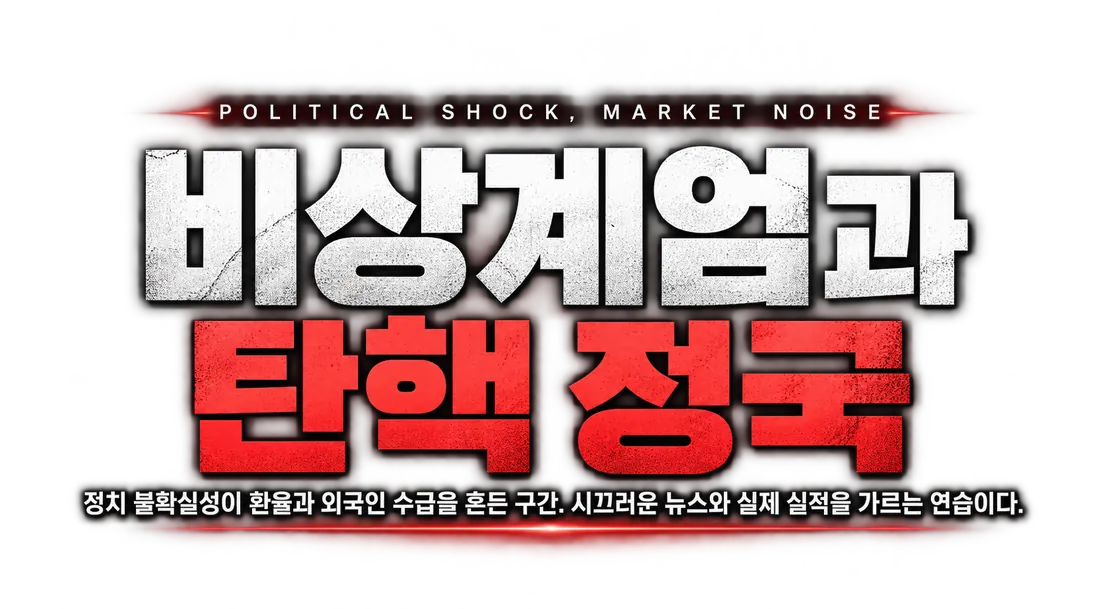
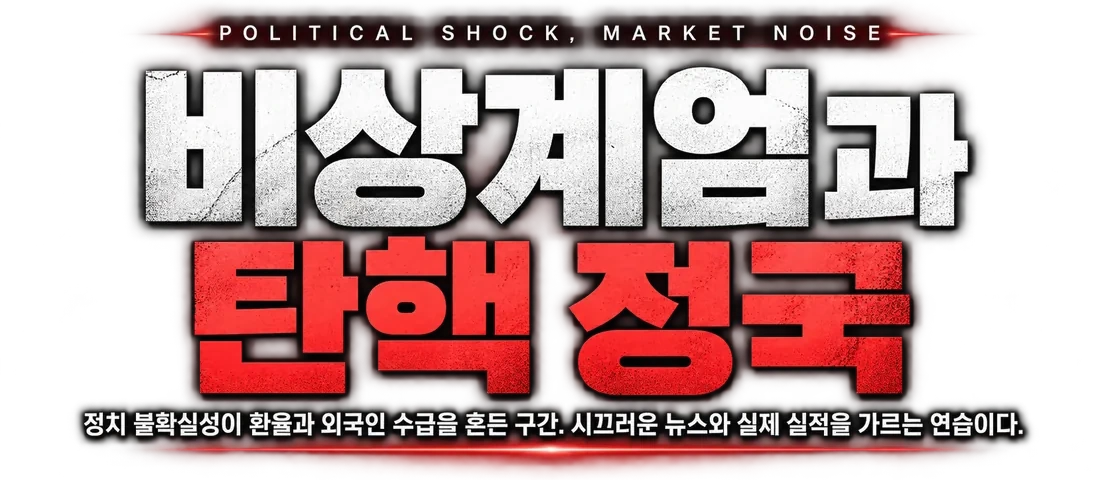
style: FE_[ANT-FE-SEASON-JOIN]_제목 그림의 빈 칸을 잘라 다섯 시즌 모두 한 화면에
조건 카드가 아직 화면 밖으로 밀려 있었다. 트럼프만의 문제가 아니라 다섯 장 모두
같은 이유였다 — 제목 그림(lockup) 안에 글자 위아래로 투명한 빈 칸이 잔뜩 들어
있었고(원본 기준 위 65~165px · 아래 24~166px), 그 빈 칸이 그대로 세로를 먹었다.
장마다 크기가 달라 "카드를 몇 px 겹칠까" 를 한 값으로 정할 수도 없었다.

1) 그림에서 빈 칸을 잘랐다 — scripts/trim-season-titles.py
   알파 32 이상인 곳의 위아래 끝을 찾아 8px 만 남긴다. **가로는 그대로 둔다.**
   화면이 그림을 폭으로 맞추므로 세로만 자르면 **보이는 글자 크기는 그대로**이고
   빈 칸만 사라진다. 여러 번 돌려도 안전하다(이미 잘렸으면 건너뛴다).
     트럼프 822 -> 544 · 코로나 822 -> 749 · 전쟁 838 -> 592
     엔캐리 611 -> 383 · 계엄 609 -> 480

2) 겹침을 -72 -> -16px 으로 되돌렸다.
   -72 는 장마다 다른 빈 칸을 먹으려던 값이었는데, 빈 칸이 얇은 코로나에서는
   겹침이 글자까지 파고들었다. 빈 칸을 없애고 나니 다섯 장의 글자 끝이 같은 자리에
   서서 한 값으로 충분하다 — 글자와 카드 사이가 어느 장이든 38~57px 로 같다.

3) 화면이 낮으면 제목이 먼저 양보한다.
   max-height:max(220px, 100vh - 355px). 빼는 값은 제목 말고 한 화면에 들어와야
   하는 것들의 합이다(상단바 72 + 히어로 여백·말머리·배지 120 + 조건 카드 131 + 숨 32).
   폭이 아니라 높이로 맞추는 것이라 object-fit:contain 으로 비율을 지키고
   object-position:left 로 왼쪽 선에 붙여 둔다. 보통 화면에서는 걸리지 않는다 —
   세 줄짜리 코로나 한 장만 낮은 화면에서 여기에 걸린다.

확인 (다섯 시즌 전부)
  1307x660  카드 바닥이 화면 안 28 · 28 · 28 · 52 · 29px
  1410x712  전부 화면 안
  1900x945  화면 안 286px · 제목은 원래 크기 그대로(상한에 안 걸림)
  390x844   가로 넘침 없음
tsc · 빌드 통과.

diff --git a/frontend/src/styles/screens/sim-join.css b/frontend/src/styles/screens/sim-join.css
@@ -122,6 +122,16 @@
 .sj-lockup{margin:0;line-height:0}
 .sj-lockup img{
   display:block;width:100%;height:auto;
+  /* 화면이 낮으면 제목이 먼저 양보한다.
+     빼는 값은 히어로에서 제목 말고 자리를 차지하는 것들의 합이다 —
+     상단바 72 + 히어로 위아래 여백과 말머리·배지 120 + 조건 카드 131 + 숨 32.
+     여기까지가 "한 화면에 들어와야 하는" 덩어리다.
+     폭이 아니라 높이로 맞추는 것이라 object-fit 으로 비율을 지키고,
+     남는 자리는 오른쪽에 두어 제목이 왼쪽 선에 그대로 붙어 있게 한다.
+     대부분의 화면에서는 이 값이 그림보다 커서 아무 일도 하지 않는다 —
+     세 줄짜리 코로나처럼 원래 키가 큰 한 장만 여기에 걸린다. */
+  max-height:max(220px,calc(100vh - 355px));
+  object-fit:contain;object-position:left center;
   filter:drop-shadow(0 10px 28px rgba(0,0,0,.5));
 }
 
@@ -130,9 +140,15 @@
 
 /* ── 히어로 밖 · 시즌 카드 ────────────────────────────────
    히어로 위로 올라타 두 덩어리를 한 몸으로 묶는다. 위 여백(gap:20px)을
-   상쇄하고 더 끌어올린 값이다. */
+   상쇄하고 더 끌어올린 값이다.
+
+   한때 -72px 이었다. 제목 그림마다 아래 투명 여백이 제각각(원본 기준 24~166px)
+   이라 그 빈 칸을 겹쳐 먹으려던 값인데, 여백이 가장 얇은 코로나에서는 겹침이
+   글자까지 파고들었다. 그림의 빈 칸을 아예 잘라내고 나니(scripts/trim-season-titles.py)
+   다섯 장의 글자 끝이 같은 자리에 서서, 한 값으로 정해도 어느 장도 잘리지 않는다.
+   히어로 아래 여백 34 - 16 = 18px 에 그림에 남긴 숨통 8px 이 더해진다. */
 .sj-card{
-  position:relative;z-index:2;margin:-72px 0 0;
+  position:relative;z-index:2;margin:-16px 0 0;
   display:grid;grid-template-columns:minmax(0,1fr) minmax(0,320px);
   align-items:center;gap:24px;padding:22px 26px;
   border:1px solid var(--rule);border-radius:20px;
@@ -269,8 +285,8 @@
   .sj-steps{grid-template-columns:repeat(2,minmax(0,1fr))}
 }
 @media(max-width:900px){
-  .sj-hero-body{max-width:100%;padding-bottom:64px}
-  .sj-card{grid-template-columns:minmax(0,1fr);gap:18px;margin-top:-52px}
+  .sj-hero-body{max-width:100%;padding-bottom:44px}
+  .sj-card{grid-template-columns:minmax(0,1fr);gap:18px;margin-top:-16px}
   .sj-head h1{font-size:var(--fs-title-lg)}
   .sj-rules-head{grid-template-columns:minmax(0,1fr)}
   .sj-rules h2::after{display:none}
@@ -283,7 +299,7 @@
 @media(max-width:600px){
   .sj-head h1{font-size:var(--fs-title)}
   .sj-hero{min-height:260px}
-  .sj-hero-body{padding:20px 18px 58px}
+  .sj-hero-body{padding:20px 18px 44px}
   .sj-card{padding:18px 16px}
   .sj-stats > div{padding:0;border-left:0;flex:1 1 45%}
   .sj-steps{grid-template-columns:minmax(0,1fr)}
@@ -364,14 +380,11 @@ body.sim-join-page .sj-dialog{
 }
 
 /* 조건 카드를 위로 올린다(2026-09-22).
-   **제목 그림 아래는 건드릴 수 없다.** 카드가 히어로를 72px 겹쳐 올라타는데, 그림마다
-   아래 투명 여백이 달라서다 — 실측으로 코로나 14px · 계엄 38 · 전쟁 58 · 엔캐리 80 ·
-   트럼프 101. 코로나는 이미 글자 끝이 카드에 닿아 있어(여유 -4px) 겹침을 더 주거나
-   히어로 아래 여백을 줄이면 그 한 장만 제목이 잘린다.
-
-   그래서 **제목 위쪽**을 줄인다. 위가 줄면 그림·히어로 아래끝·카드가 **같이** 올라오므로
-   그림과 카드 사이는 그대로이고 카드만 화면 위로 붙는다. 1366×768 에서 카드 바닥이
-   19px 넘쳐 있었다 — 위에서 22px 을 걷어 안으로 들인다. */
+   히어로와 조건 카드까지는 한 화면(배율 100%)에 들어와야 하는 자리다.
+   제목 그림 자체는 줄이지 않는다 — 줄인 것은 글자 위의 빈 자리와,
+   그림 파일 안에 들어 있던 빈 자리다(scripts/trim-season-titles.py).
+   여기서는 제목 **위쪽** 만 걷는다. 위가 줄면 그림·히어로 아래끝·카드가
+   같이 올라오므로 그림과 카드 사이는 그대로다. */
 body.sim-join-page .sj-hero-body{padding-top:16px;gap:10px}
 body.sim-join-page .sj-head{gap:8px}
 

diff --git a/frontend/scripts/trim-season-titles.py b/frontend/scripts/trim-season-titles.py
@@ -1,0 +1,45 @@
+# -*- coding: utf-8 -*-
+"""시즌 제목 그림(lockup)의 위·아래 빈 공간을 잘라낸다.
+
+왜 필요했나
+  page_train 의 *-title.webp 는 ChatGPT 가 뽑아 준 그대로라 글자 위아래에 투명한
+  여백이 잔뜩 붙어 있었다. 재보면 장마다 다르다(아래 여백만 코로나 24px · 계엄 58 ·
+  전쟁 97 · 엔캐리 121 · 트럼프 166, 원본 픽셀 기준). 화면(G-03 시즌 상세)은 그림을
+  폭으로 맞춰 넣으므로 이 여백이 그대로 세로 높이를 먹고, 그 높이만큼 아래 조건
+  카드가 화면 밖으로 밀렸다. 게다가 여백이 장마다 다르니 "카드를 몇 px 겹칠까" 를
+  한 값으로 정할 수가 없었다 — 트럼프에 맞추면 코로나 글자가 잘리는 식이다.
+
+무엇을 하나
+  알파가 32 이상인 픽셀의 위아래 끝을 찾아 8px 만 남기고 자른다.
+  **가로는 건드리지 않는다.** 화면이 그림을 폭 기준으로 늘리기 때문에, 가로를
+  자르면 글자가 그만큼 커져 다섯 장의 크기 균형이 깨진다. 세로만 자르면 보이는
+  글자 크기는 한 픽셀도 달라지지 않고 빈 공간만 사라진다.
+
+  이미 잘린 그림은 그대로 둔다(여백이 8px 이하면 건너뛴다) — 여러 번 돌려도 안전하다.
+
+실행
+  python scripts/trim-season-titles.py
+"""
+from pathlib import Path
+from PIL import Image
+
+SRC = Path(__file__).resolve().parent.parent / 'public' / 'assets' / 'page_train'
+ALPHA_MIN = 32   # 이보다 옅은 픽셀은 글자가 아니라 번짐으로 본다
+PAD = 8          # 자른 뒤 남길 숨통(원본 픽셀)
+
+for path in sorted(SRC.glob('*-title.webp')):
+    im = Image.open(path).convert('RGBA')
+    w, h = im.size
+    mask = im.split()[3].point(lambda v: 255 if v >= ALPHA_MIN else 0)
+    box = mask.getbbox()
+    if box is None:
+        print(f'{path.name}: 비어 있다 — 건너뛴다')
+        continue
+    top, bottom = box[1], h - box[3]
+    if top <= PAD and bottom <= PAD:
+        print(f'{path.name}: 이미 잘려 있다 (위 {top} · 아래 {bottom})')
+        continue
+    y0 = max(0, box[1] - PAD)
+    y1 = min(h, box[3] + PAD)
+    im.crop((0, y0, w, y1)).save(path, 'WEBP', quality=92, method=6)
+    print(f'{path.name}: {w}x{h} -> {w}x{y1 - y0}  (위 {top} · 아래 {bottom} 걷음)')
